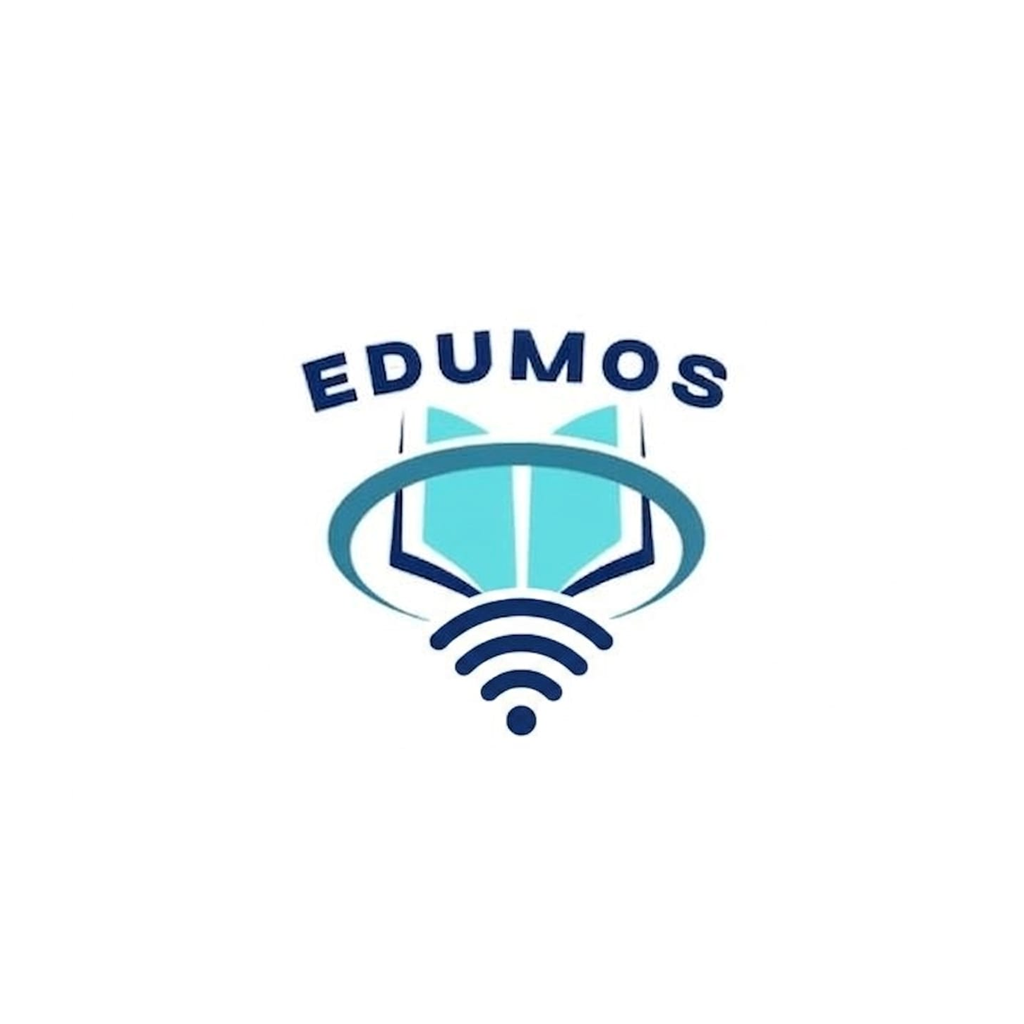
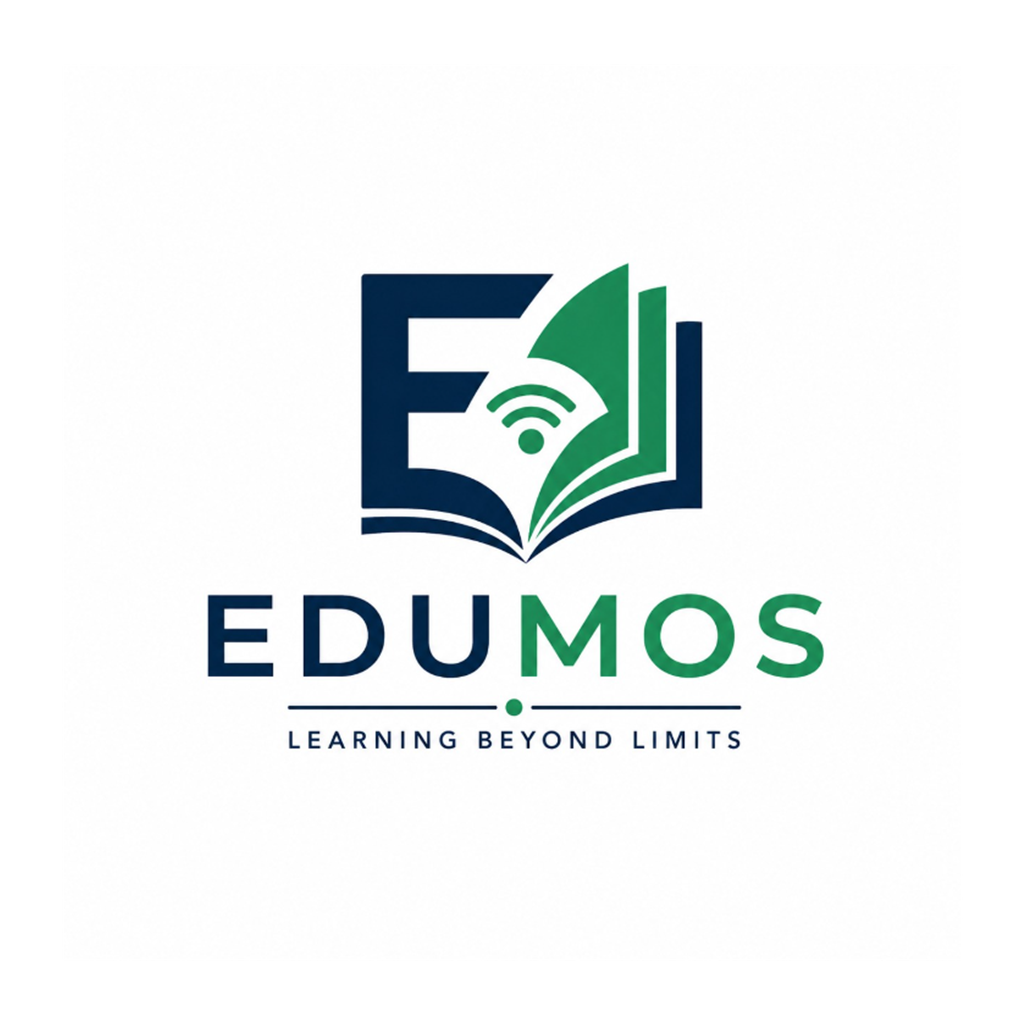
Update branding and improve group connection

Changed region(s): [[0.1875, 0.25, 0.8125, 0.75]]

diff --git a/src/firebase.js b/src/firebase.js
@@ -36,6 +36,14 @@ if (typeof globalThis !== "undefined" && typeof window !== "undefined" && typeof
 const keyOf = (...parts) => parts.join("__");
 const localId = prefix => `${prefix}_${Date.now()}_${Math.random().toString(36).slice(2)}`;
 const FIREBASE_TIMEOUT_MS = 10000;
+const LOCAL_HOST_TIMEOUT_MS = 12000;
+
+function withTimeout(promise, ms, message) {
+  return Promise.race([
+    promise,
+    new Promise((_, reject) => setTimeout(() => reject(new Error(message)), ms))
+  ]);
+}
 
 function cacheUser(role, user) {
   if (user?.email) setCollectionItem("users", keyOf(role, user.email.trim().toLowerCase()), user);
@@ -72,10 +80,7 @@ function cacheGradeColumn(classroomId, column) {
 async function tryFirestore(operation, fallback) {
   if (!isOnline()) return fallback();
   try {
-    return await Promise.race([
-      operation(),
-      new Promise((_, reject) => setTimeout(() => reject(new Error("Firebase request timed out")), FIREBASE_TIMEOUT_MS))
-    ]);
+    return await withTimeout(operation(), FIREBASE_TIMEOUT_MS, "Firebase request timed out");
   } catch (_error) {
     return fallback();
   }
@@ -106,16 +111,14 @@ export async function createTeacher(name, email, password) {
   if (!isOnline()) return { ok: false, message: "Teacher account creation needs internet once. Existing cached accounts can login offline." };
   const cleanEmail = email.trim().toLowerCase();
   try {
-    const existing = await Promise.race([
+    const existing = await withTimeout(
       getDocs(query(collection(db, "teachers"), where("email", "==", cleanEmail), limit(1))),
-      new Promise((_, reject) => setTimeout(() => reject(new Error("Firebase request timed out")), FIREBASE_TIMEOUT_MS))
-    ]);
+      FIREBASE_TIMEOUT_MS,
+      "Firebase request timed out"
+    );
     if (!existing.empty) return { ok: false, message: "Teacher already exists" };
     const data = { name, email: cleanEmail, password, createdAt: Date.now() };
-    const ref = await Promise.race([
-      addDoc(collection(db, "teachers"), data),
-      new Promise((_, reject) => setTimeout(() => reject(new Error("Firebase request timed out")), FIREBASE_TIMEOUT_MS))
-    ]);
+    const ref = await withTimeout(addDoc(collection(db, "teachers"), data), FIREBASE_TIMEOUT_MS, "Firebase request timed out");
     const teacher = { id: ref.id, ...data };
     cacheUser("teacher", teacher);
     return { ok: true, teacher };
@@ -517,9 +520,15 @@ export function importClassroomOfflinePackage(payload, student) {
 }
 
 export async function connectToTeacherHost(hostUrl, classroomId, student) {
-  const cleanUrl = hostUrl.trim().replace(/\/$/, "");
-  const response = await fetch(`${cleanUrl}/api/offline/classrooms/${classroomId}`);
-  if (!response.ok) throw new Error("Teacher host is not reachable");
+  const cleanUrl = normalizeHostUrl(hostUrl);
+  const cleanClassroomId = classroomId.trim();
+  if (!cleanUrl || !cleanClassroomId) throw new Error("Enter teacher address and course ID.");
+  const response = await withTimeout(
+    fetch(`${cleanUrl}/api/offline/classrooms/${cleanClassroomId}`),
+    LOCAL_HOST_TIMEOUT_MS,
+    "Could not reach teacher group. Check that both phones are on the same hotspot and the teacher pressed Host Group."
+  );
+  if (!response.ok) throw new Error("Teacher group is not reachable. Check the address and course ID.");
   const payload = await response.json();
   payload.classroom = { ...payload.classroom, teacherHostUrl: cleanUrl };
   return importClassroomOfflinePackage(payload, student);
@@ -527,25 +536,39 @@ export async function connectToTeacherHost(hostUrl, classroomId, student) {
 
 export async function submitGradeToTeacherHost(hostUrl, classroomId, grade) {
   if (!hostUrl) return { ok: false };
-  const cleanUrl = hostUrl.trim().replace(/\/$/, "");
-  const response = await fetch(`${cleanUrl}/api/offline/classrooms/${classroomId}/grades`, {
-    method: "POST",
-    headers: { "Content-Type": "application/json" },
-    body: JSON.stringify(grade)
-  });
+  const cleanUrl = normalizeHostUrl(hostUrl);
+  const response = await withTimeout(
+    fetch(`${cleanUrl}/api/offline/classrooms/${classroomId}/grades`, {
+      method: "POST",
+      headers: { "Content-Type": "application/json" },
+      body: JSON.stringify(grade)
+    }),
+    LOCAL_HOST_TIMEOUT_MS,
+    "Could not send grade to teacher host"
+  );
   if (!response.ok) throw new Error("Could not send grade to teacher host");
   return response.json();
 }
 
 export async function publishClassroomToTeacherHost(hostUrl, classroomId, payload) {
-  const cleanUrl = hostUrl.trim().replace(/\/$/, "");
-  const response = await fetch(`${cleanUrl}/api/offline/classrooms/${classroomId}`, {
-    method: "POST",
-    headers: { "Content-Type": "application/json" },
-    body: JSON.stringify(payload)
-  });
+  const cleanUrl = normalizeHostUrl(hostUrl);
+  const response = await withTimeout(
+    fetch(`${cleanUrl}/api/offline/classrooms/${classroomId}`, {
+      method: "POST",
+      headers: { "Content-Type": "application/json" },
+      body: JSON.stringify(payload)
+    }),
+    LOCAL_HOST_TIMEOUT_MS,
+    "Could not publish classroom to local teacher host"
+  );
   if (!response.ok) throw new Error("Could not publish classroom to local teacher host");
   return response.json();
+}
+
+function normalizeHostUrl(hostUrl) {
+  const value = hostUrl.trim().replace(/\/$/, "");
+  if (!value) return "";
+  return /^https?:\/\//i.test(value) ? value : `http://${value}`;
 }
 
 async function applyPendingWrite(write) {

diff --git a/src/App.js b/src/App.js
@@ -54,7 +54,7 @@ const DEFAULT_STUDENT = { email: "student1@gmail.com", password: "student123" };
 const DEFAULT_TEACHER = { email: "teacher@edumos.com", password: "teacher123" };
 const SCREEN_ROUTES = new Set(["home", "about", "login", "signup", "studentSetup", "studentDashboard", "studentClassroom", "teacherDashboard", "teacherClassroom"]);
 const userKey = (role, email) => `${role}__${email.trim().toLowerCase()}`;
-const logoImage = require("../assets/edumos-logo.jpeg");
+const logoImage = require("../assets/edumos-logo.png");
 
 function canUseBrowserHistory() {
   return Platform.OS === "web" && typeof window !== "undefined" && !!window.history && !!window.location?.href;
@@ -305,6 +305,9 @@ export default function App() {
             setMessage(`Connected offline to ${room.name}`);
             await refreshClassrooms();
             setPendingWrites(getPendingWriteCount());
+            setActiveClassroom(room);
+            setTab("resources");
+            navigate("studentClassroom");
           }}
           onOpen={room => {
             setActiveClassroom(room);
